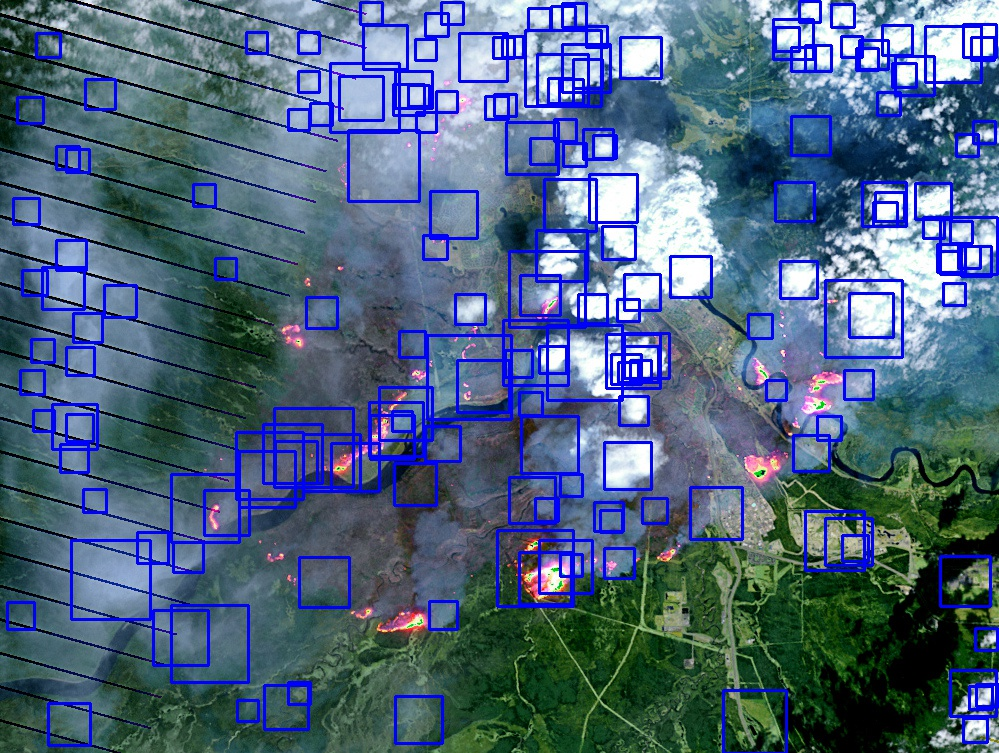
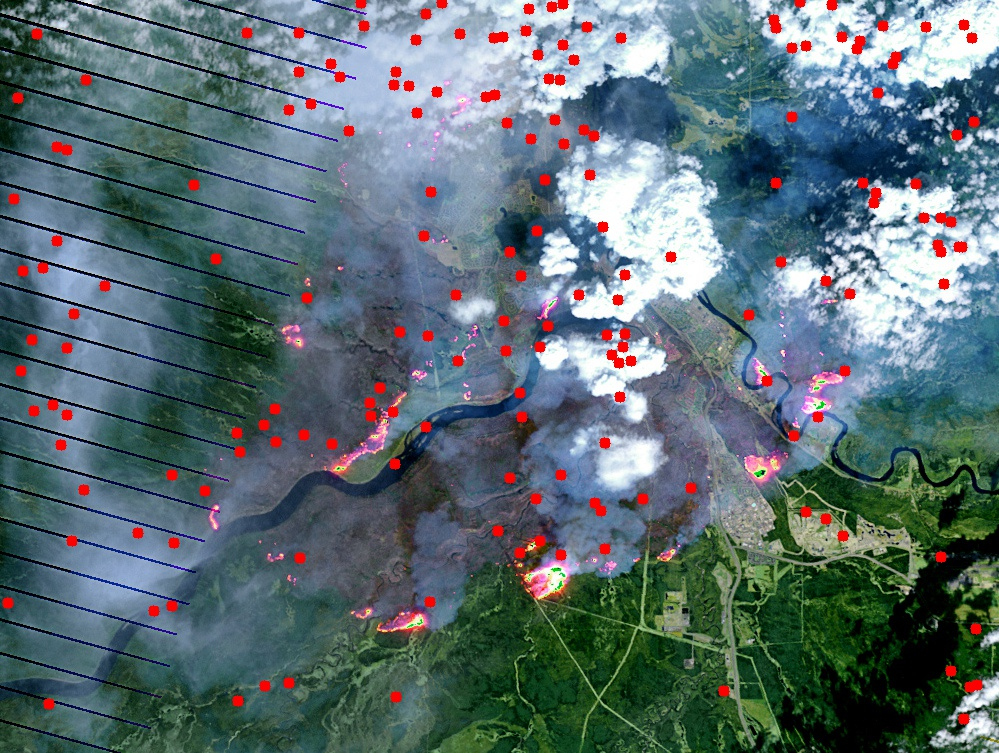
Detection Zoom

diff --git a/public/javascripts/zoomPan.js b/public/javascripts/zoomPan.js
@@ -1,0 +1,83 @@
+/*!
+	ZoomPan
+	license: MIT
+*/
+var zoomPan =
+	angular.module('zoomPanApp',[]);
+	
+/*
+***************************************
+***********ZOOMPAN DIRECTIVE**************
+***************************************
+*/
+zoomPan.directive('zoom', function($window) {
+
+	function link(scope, element, attrs) {
+
+		//SETUP
+
+		var frame, image, zoomlvl, fWidth, fHeight, rect, rootDoc, offsetL, offsetT, xPosition, yPosition, pan;
+		//Template has loaded, grab elements.
+        scope.$watch('$viewContentLoaded', function()
+        {
+           frame = angular.element(document.querySelector("#"+scope.frame))[0];
+           image = angular.element(document.querySelector("#"+scope.img))[0];
+           
+           zoomlvl = (scope.zoomlvl === undefined) ? "2.5" : scope.zoomlvl
+        });
+
+
+
+		//MOUSE TRACKER OVER IMG
+		scope.trackMouse = function($event) {
+					
+			fWidth = frame.clientWidth;
+			fHeight = frame.clientHeight;
+			
+			rect = frame.getBoundingClientRect();
+			rootDoc = frame.ownerDocument.documentElement;
+			
+			//calculate the offset of the frame from the top and left of the document
+			offsetT = rect.top + $window.pageYOffset - rootDoc.clientTop
+			offsetL = rect.left + $window.pageXOffset - rootDoc.clientLeft
+
+			//calculate current cursor position inside the frame, as a percentage
+			xPosition = (($event.pageX - offsetL) / fWidth) * 100
+			yPosition = (($event.pageY - offsetT) / fHeight) * 100
+
+			pan = xPosition + "% " + yPosition + "% 0";
+			image.style.transformOrigin = pan;
+
+		}
+        
+		//MOUSE OVER | ZOOM-IN
+		element.on('mouseover', function(event) {
+			image.style.transform = 'scale('+zoomlvl+')'
+		})
+
+		//MOUSE OUT | ZOOM-OUT
+		element.on('mouseout', function(event) {
+			image.style.transform = 'scale(1)'
+		})
+
+
+	}
+
+	return {
+		restrict: 'EA',
+		scope: {
+			src: '@src',
+			frame: '@frame',
+			img: '@img',
+			zoomlvl: '@zoomlvl'
+		},
+		template: [
+			'<div id="{{ frame }}" class="zoomPanFrame" >',
+			'<img id="{{ img }}" class="zoomPanImage" ng-src= "{{ src }}" ng-mousemove="trackMouse($event)"></img>',
+			'</div>'
+		].join(''),
+		link: link
+	};
+});
+
+

diff --git a/public/stylesheets/zoomPan.css b/public/stylesheets/zoomPan.css
@@ -1,0 +1,21 @@
+/*IMAGE-ZOOM*/
+
+.zoomPanFrame{
+	display:inline-block;
+	margin-left: auto;
+    margin-right: auto ;
+	overflow: hidden;
+	border-style: solid;
+    border-width: 1px;
+    border-color:#ECF0F1;
+    border-radius: 0.1em;
+	}
+
+.zoomPanImage{
+	height:500px;
+	width:715px;
+	display: block;
+	transition: transform .5s ease-out;
+	transform: scale(1);
+	transform-origin: 0 0 0px;
+	}

diff --git a/CMPE295B/Janish/object_detection.py b/CMPE295B/Janish/object_detection.py
@@ -18,8 +18,8 @@ vehicles = vehicle_classifier.detectMultiScale(cctv_image, 1.1, 2, maxSize=(100,
 
 # draw a rectangle around every vehicle detected
 for (x,y,w,h) in vehicles:
-    cv2.rectangle(cctv_image, (x,y), (x+w, y+h),(255,0,0),2)
-
+#    cv2.rectangle(cctv_image, (x,y), (x+w, y+h),(255,0,0),2)
+	cv2.line(cctv_image,(x,y),(x+1,y+1),(0,0,255),10)
 plt.figure(figsize=(9,9))
 plt.axis('off')
 cv2.imwrite( "/Users/ankitgupta/Documents/WebstormProjects/CMPE295B/public/images/detected_" + sys.argv[1] + '.jpg',cctv_image);
